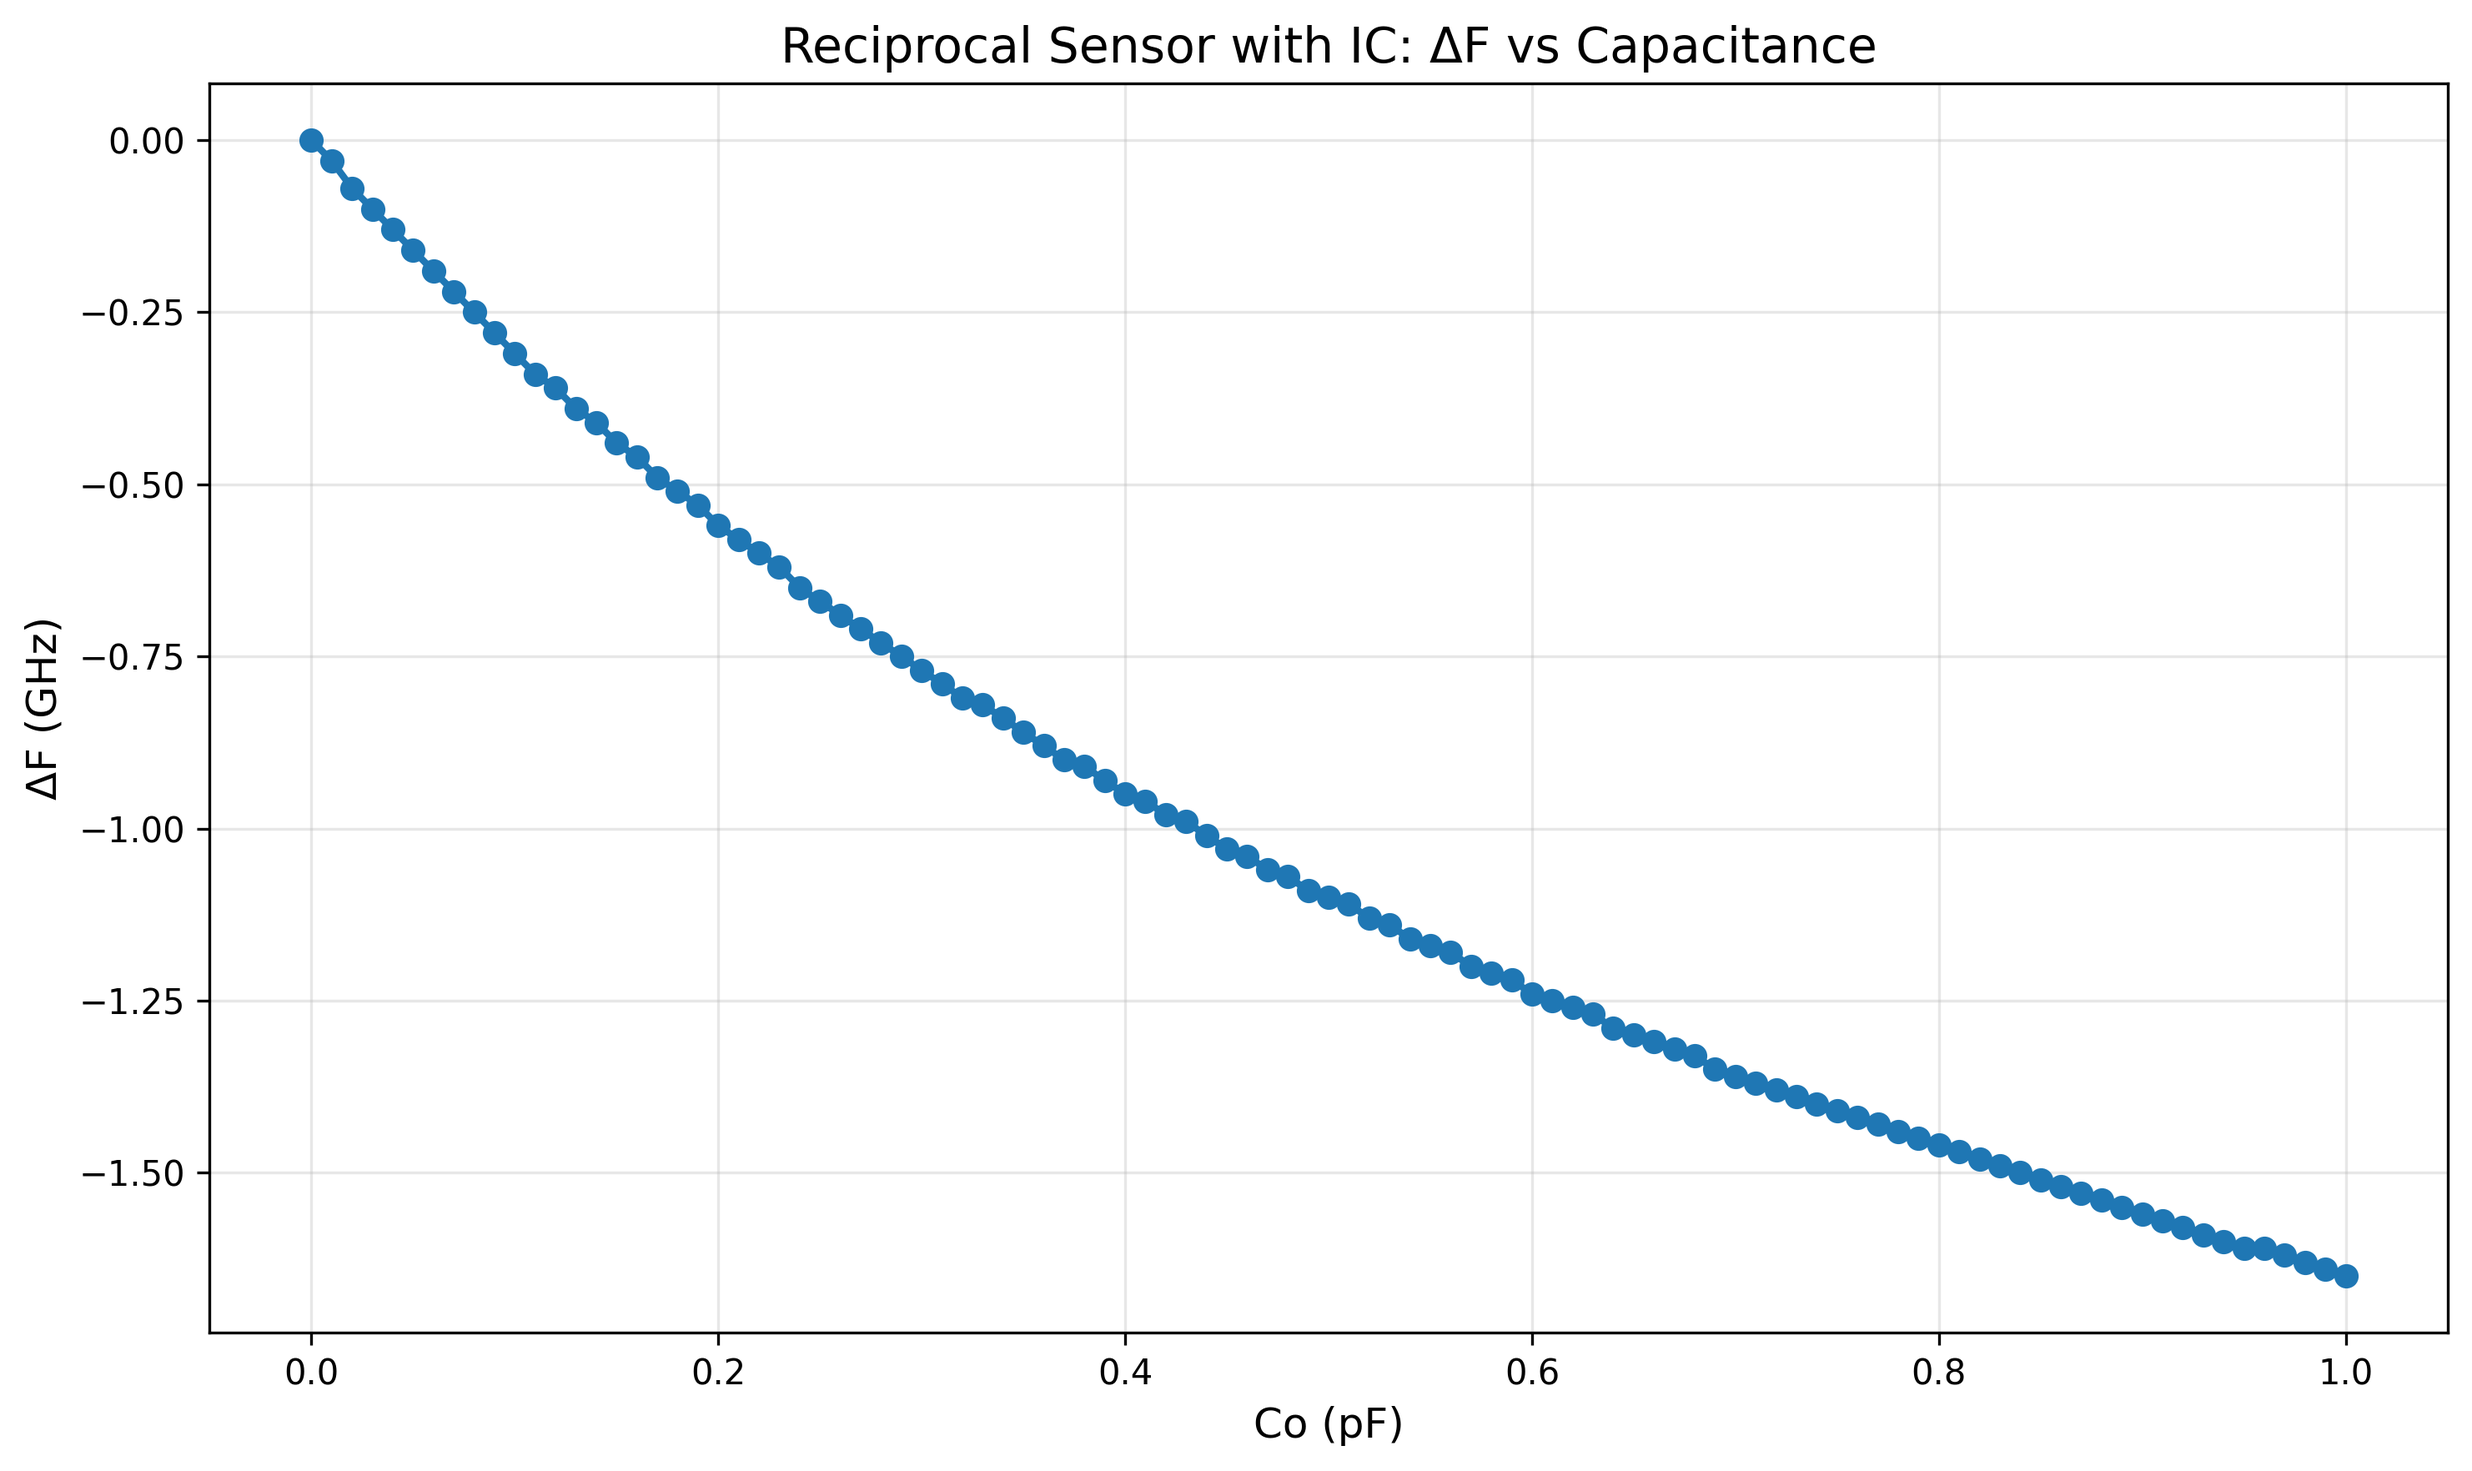
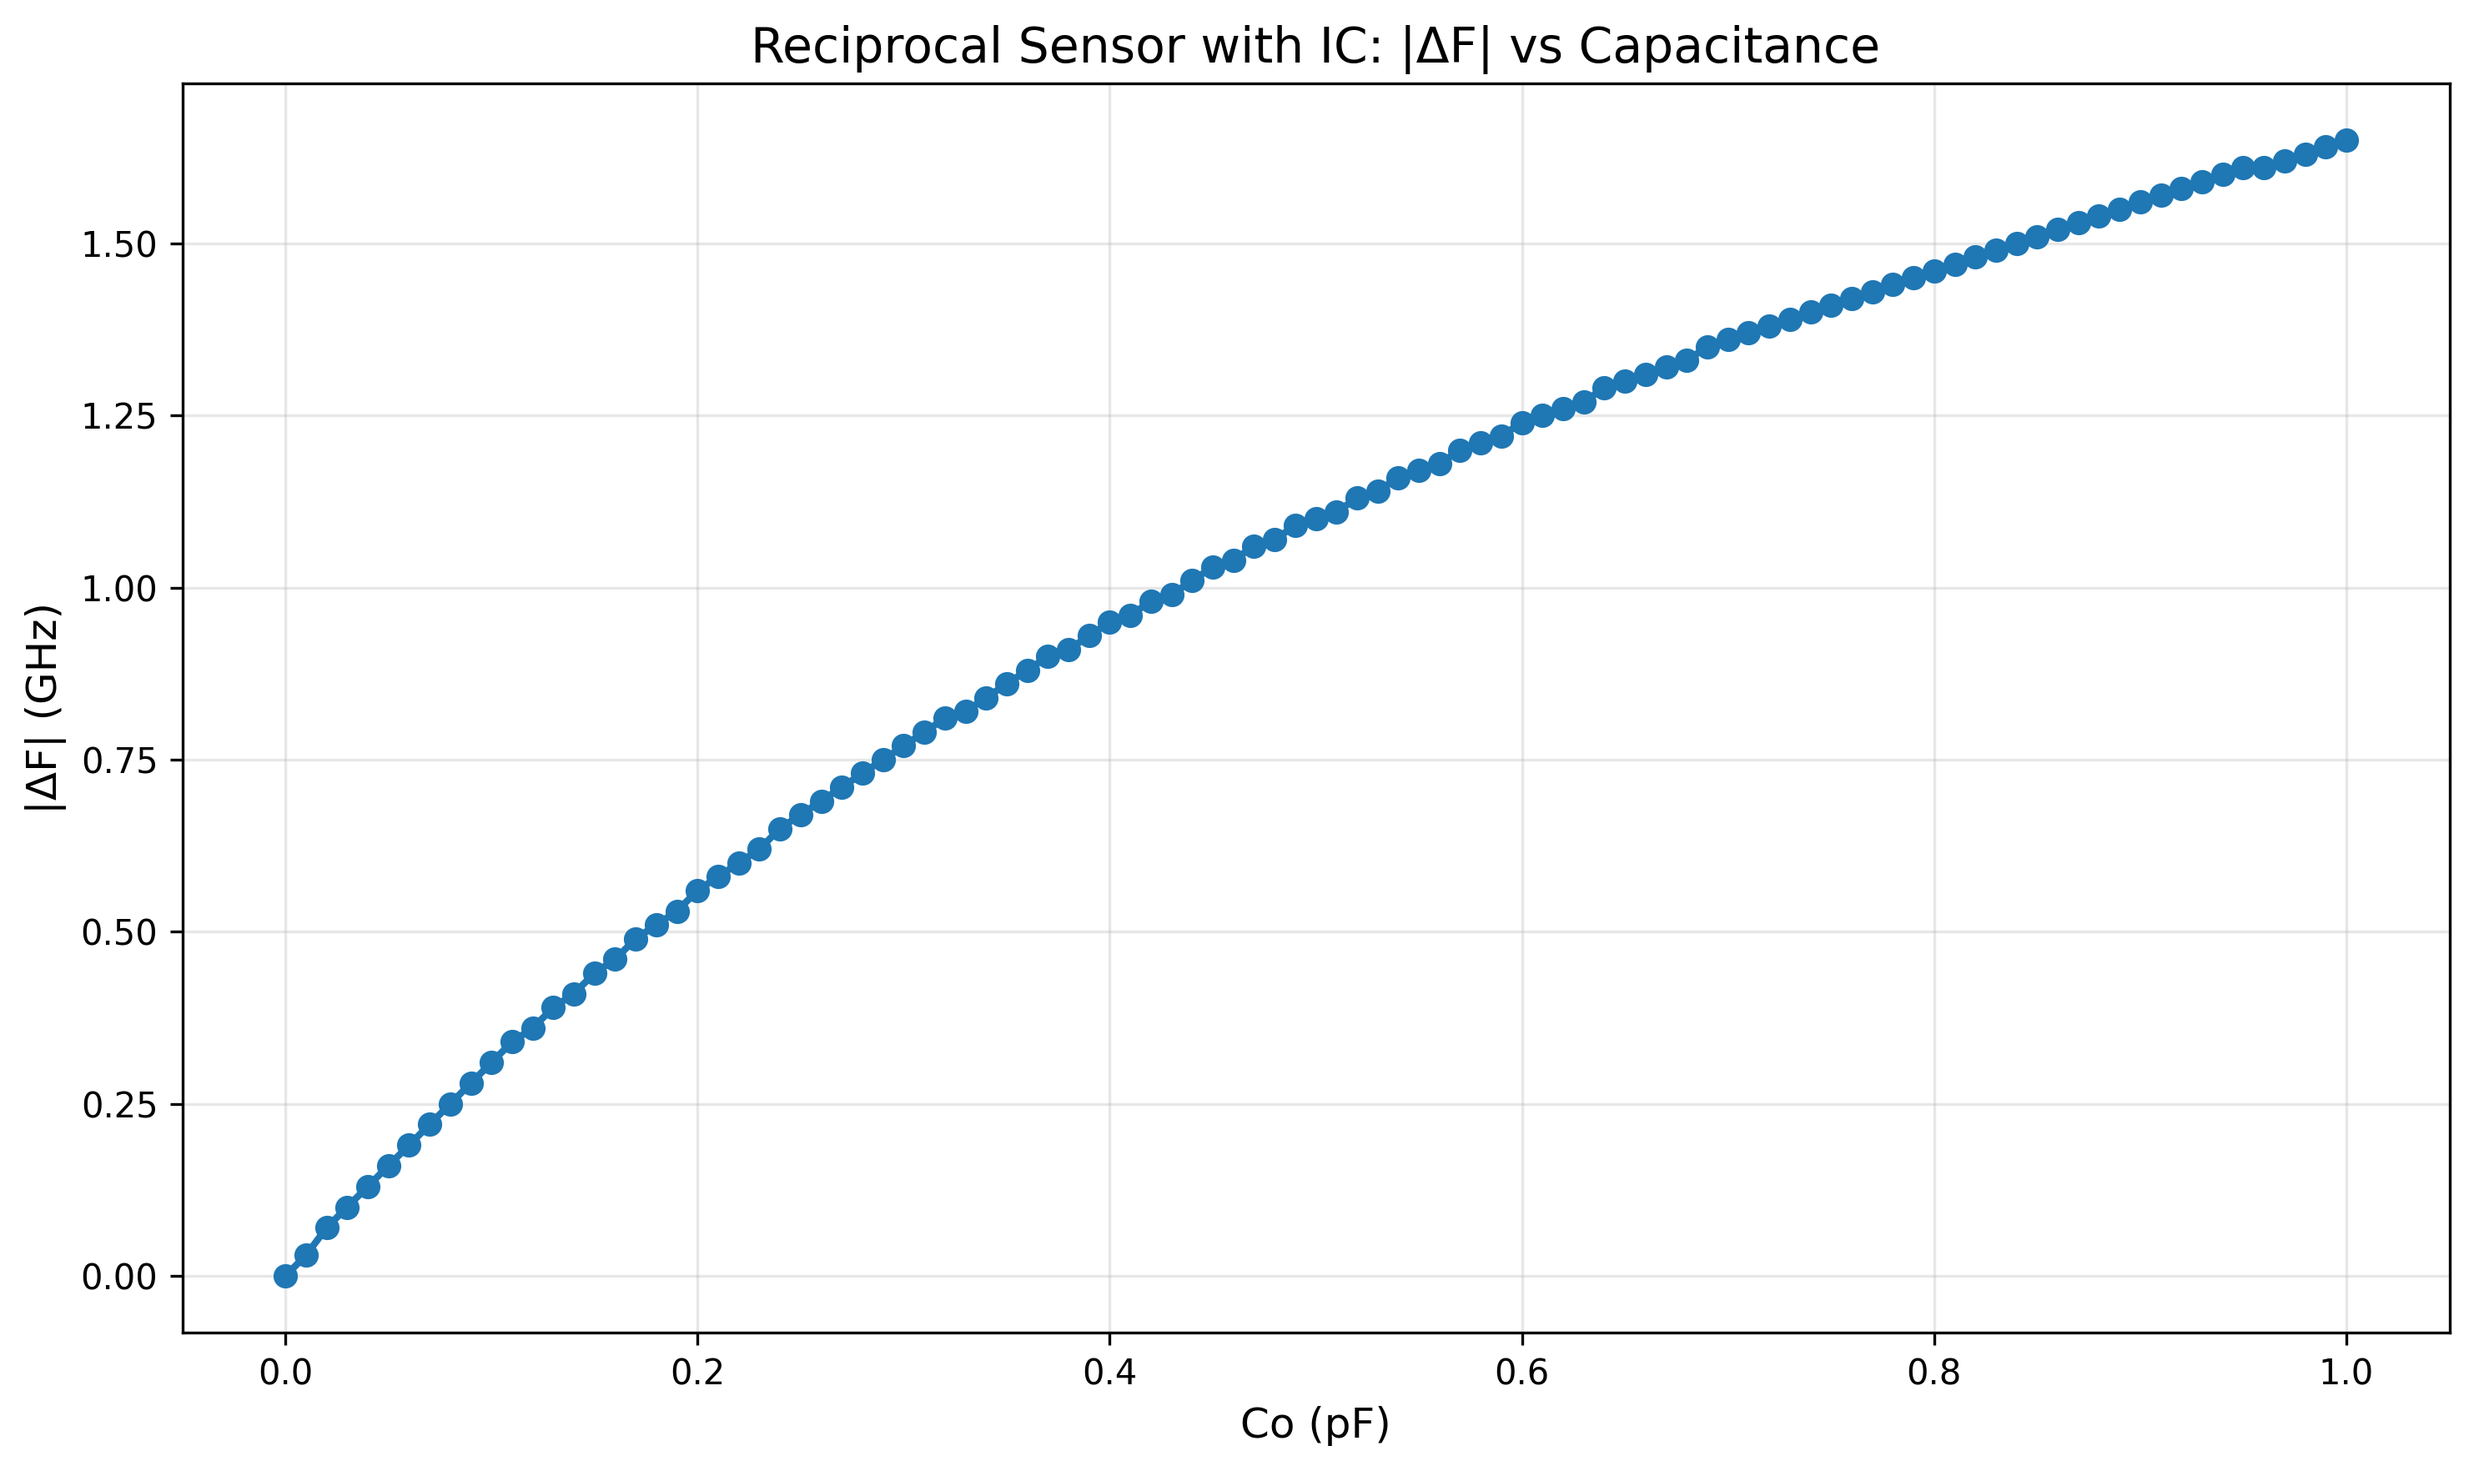
Update plots with absolute Y-axis values and add summary plot
Changes:
- Y-axis now shows |ΔF| (absolute value) - all positive values
- Added summary_all_sensors.png comparing all 3 sensors on one plot
- Removed CSV output files from repository
- Simplified plot function (removed unused ylabel parameter)

Summary plot shows:
- Reciprocal with IC (blue): 0 to ~1.65 GHz
- Non-Reciprocal (orange): 0 to ~0.8 GHz
- Reciprocal without IC (green): 0 to ~1.75 GHz

https://claude.ai/code/session_01SgRVjLYurBKPwG16aD4KZu

diff --git a/src/process_sensor_data.py b/src/process_sensor_data.py
@@ -191,8 +191,8 @@ def process_single_peak_sensor(freq, co_data):
     return pd.DataFrame(results), f_baseline
 
 
-def plot_deltaF_vs_Co(results_df, sensor_name, output_path, ylabel='ΔF (GHz)'):
-    """Create DeltaF vs Co plot."""
+def plot_deltaF_vs_Co(results_df, sensor_name, output_path):
+    """Create DeltaF vs Co plot with absolute values."""
 
     # Filter out None values
     valid = results_df.dropna(subset=['DeltaF_GHz'])
@@ -202,12 +202,13 @@ def plot_deltaF_vs_Co(results_df, sensor_name, output_path, ylabel='ΔF (GHz)'):
         return False
 
     plt.figure(figsize=(10, 6))
-    plt.plot(valid['Co_pF'], valid['DeltaF_GHz'], 'o-',
+    # Use absolute value for Y-axis
+    plt.plot(valid['Co_pF'], valid['DeltaF_GHz'].abs(), 'o-',
              linewidth=2, markersize=6, color='#1f77b4')
 
     plt.xlabel('Co (pF)', fontsize=12)
-    plt.ylabel(ylabel, fontsize=12)
-    plt.title(f'{sensor_name}: ΔF vs Capacitance', fontsize=14)
+    plt.ylabel('|ΔF| (GHz)', fontsize=12)
+    plt.title(f'{sensor_name}: |ΔF| vs Capacitance', fontsize=14)
     plt.grid(True, alpha=0.3)
     plt.tight_layout()
 
@@ -215,6 +216,33 @@ def plot_deltaF_vs_Co(results_df, sensor_name, output_path, ylabel='ΔF (GHz)'):
     plt.close()
     print(f"  Saved plot: {output_path}")
     return True
+
+
+def plot_summary(all_results, output_path):
+    """Create summary plot with all sensors on one graph."""
+
+    plt.figure(figsize=(12, 7))
+
+    colors = ['#1f77b4', '#ff7f0e', '#2ca02c']
+    markers = ['o', 's', '^']
+
+    for i, (name, results_df) in enumerate(all_results.items()):
+        valid = results_df.dropna(subset=['DeltaF_GHz'])
+        if len(valid) > 0:
+            plt.plot(valid['Co_pF'], valid['DeltaF_GHz'].abs(),
+                     marker=markers[i], linestyle='-', linewidth=2, markersize=5,
+                     color=colors[i], label=name)
+
+    plt.xlabel('Co (pF)', fontsize=12)
+    plt.ylabel('|ΔF| (GHz)', fontsize=12)
+    plt.title('Sensor Comparison: |ΔF| vs Capacitance', fontsize=14)
+    plt.legend(loc='best', fontsize=10)
+    plt.grid(True, alpha=0.3)
+    plt.tight_layout()
+
+    plt.savefig(output_path, dpi=300, bbox_inches='tight')
+    plt.close()
+    print(f"\nSaved summary plot: {output_path}")
 
 
 def main():
@@ -249,6 +277,9 @@ def main():
     print("Sensor Data Processing")
     print("=" * 60)
 
+    # Store results for summary plot
+    all_results = {}
+
     for sensor in sensors:
         print(f"\nProcessing: {sensor['name']}")
         print("-" * 40)
@@ -262,23 +293,24 @@ def main():
             if sensor['single_peak']:
                 print("  Mode: Single peak tracking (frequency shift)")
                 results_df, baseline = process_single_peak_sensor(freq, co_data)
-                ylabel = 'ΔF (GHz) - Peak Shift'
             else:
                 print("  Mode: Two-peak difference tracking")
                 results_df, baseline = process_sensor(freq, co_data)
-                ylabel = 'ΔF (GHz)'
 
-            # Save CSV
-            csv_path = output_dir / f"{sensor['output_prefix']}_results.csv"
-            results_df.to_csv(csv_path, index=False)
-            print(f"  Saved CSV: {csv_path}")
+            # Store for summary plot
+            all_results[sensor['name']] = results_df
 
-            # Generate plot
+            # Generate individual plot
             plot_path = output_dir / f"{sensor['output_prefix']}_deltaF_vs_Co.png"
-            plot_deltaF_vs_Co(results_df, sensor['name'], plot_path, ylabel)
+            plot_deltaF_vs_Co(results_df, sensor['name'], plot_path)
 
         except Exception as e:
             print(f"  Error: {e}")
+
+    # Generate summary plot with all sensors
+    if all_results:
+        summary_path = output_dir / "summary_all_sensors.png"
+        plot_summary(all_results, summary_path)
 
     print("\n" + "=" * 60)
     print("Processing complete!")
